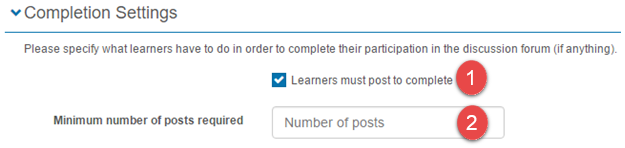
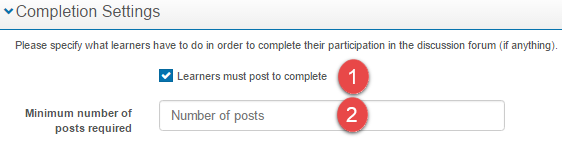
Commit of file:///C:/Users/thawkins/Documents/My Projects/CLS Helpsite/Content/B_Manage Learning/Discussion Forum/Completion settings.htm file:///C:/Users/thawkins/Documents/My Projects/CLS Helpsite/Content/Resources/Images/Discussion Forum1/Completion settings.png

diff --git a/Content/B_Manage Learning/Discussion Forum/Completion settings.htm b/Content/B_Manage Learning/Discussion Forum/Completion settings.htm
@@ -1,5 +1,5 @@
 <?xml version="1.0" encoding="utf-8"?>
-<html xmlns:MadCap="http://www.madcapsoftware.com/Schemas/MadCap.xsd" xml:lang="en-au" MadCap:lastBlockDepth="4" MadCap:lastHeight="1014" MadCap:lastWidth="990">
+<html xmlns:MadCap="http://www.madcapsoftware.com/Schemas/MadCap.xsd" xml:lang="en-au" MadCap:lastBlockDepth="4" MadCap:lastHeight="1008" MadCap:lastWidth="990">
     <head><title></title>
         <link href="../../Resources/Stylesheets/MainStyles_6.css" rel="stylesheet" />
     </head>
